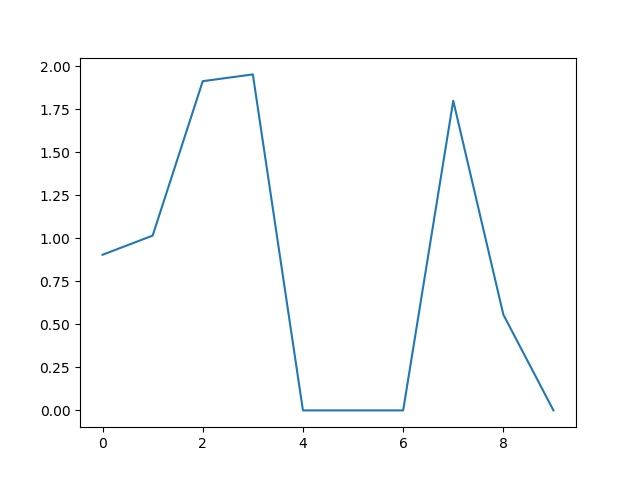
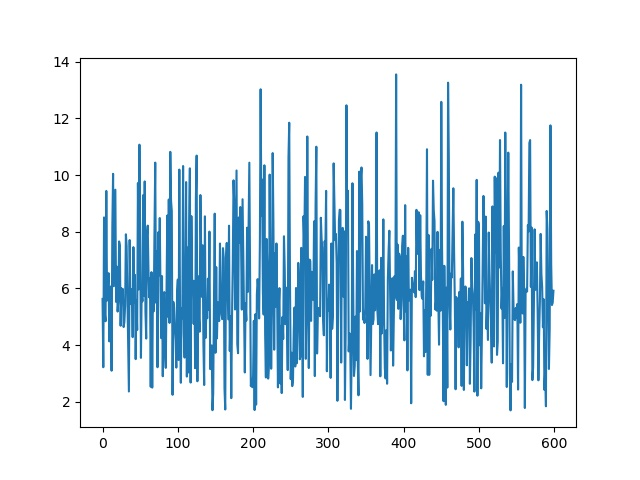
Implement TransE v0.3 New:     * better negative-sampling     * normalize embedding parameters for each epoch

diff --git a/Optimizer_nn_embed.py b/Optimizer_nn_embed.py
@@ -11,7 +11,7 @@ def draw(p1):
     plt.figure('Draw')
     plt.plot(p1)  
     plt.draw()  
-    plt.pause(3)  
+    plt.pause(1)  
     plt.savefig("easyplot01.jpg")
     plt.close()
 
@@ -52,7 +52,7 @@ class Relation(object):
         
 
 class FancyMLP(nn.Block):
-    def __init__(self, entity_size=0, relation_size=0, entity_dim=2, relation_dim=2, sampling_rate=0.2, ctx=None, logger=None, **kwargs):
+    def __init__(self, entity_size=0, relation_size=0, entity_dim=2, relation_dim=2, negative_sampling_rate=0.5, margin=0.1, ctx=None, logger=None, **kwargs):
         super(FancyMLP, self).__init__(**kwargs)
         self.entity_list = list(range(entity_size))
         self.relation_list = list(range(relation_size))
@@ -64,7 +64,8 @@ class FancyMLP(nn.Block):
         self.relation_dim = relation_dim
         self.entity_embedding = Embedding(entity_size, entity_dim)
         self.relation_embedding = Embedding(relation_size, relation_dim)
-        self.sampling_rate=sampling_rate
+        self.negative_sampling_rate=negative_sampling_rate
+        self.margin = margin
         self.ctx = ctx
         self.logger = logger
 
@@ -73,7 +74,7 @@ class FancyMLP(nn.Block):
             if type(self.entity_list[relat.head.idx]) is int:
                 self.entity_list[relat.head.idx] = self.params.get(relat.head.tag, shape=(1,self.entity_dim), init=init.Uniform(1))
             if type(self.relation_list[relat.idx]) is int:
-                self.relation_list[relat.idx] = self.params.get(relat.tag, shape=(1,self.relation_dim), init=init.One())
+                self.relation_list[relat.idx] = self.params.get(relat.tag, shape=(1,self.relation_dim), init=init.Uniform(1))
             if type(self.entity_list[relat.tail.idx]) is int:
                 self.entity_list[relat.tail.idx] = self.params.get(relat.tail.tag, shape=(1,self.entity_dim), init=init.Uniform(1))
             triple = (relat.head.idx, relat.idx, relat.tail.idx)
@@ -100,39 +101,73 @@ class FancyMLP(nn.Block):
     #     L = nd.dot(r.T, nd.tanh(ht))
     #     return L
 
+    # def distance(self, h, r, t):
+    #     # self.take_log(h, r, t)
+    #     D = h + r - t
+    #     return D
     def distance(self, h, r, t):
         # self.take_log(h, r, t)
-        D = h + r - t
+        D = (h + r - t).norm(ord=2, axis=-1)
         return D
 
-    def loss_function(self, h, r, t, h_hat, t_hat, gamma=0.5):
+    def loss_function(self, h, r, t, h_hat, t_hat):
         # print(self.distance(h,r,t) - self.distance(h_hat,r,t_hat))
-        # print(nd.array(gamma + self.distance(h,r,t) - self.distance(h_hat,r,t_hat), self.ctx))
-        # print(nd.maximum(nd.array(gamma + self.distance(h,r,t) - self.distance(h_hat,r,t_hat), self.ctx), 0))
-        L = nd.maximum(nd.array(gamma + self.distance(h,r,t) - self.distance(h_hat,r,t_hat), self.ctx), 0)
+        # print(nd.array(margin + self.distance(h,r,t) - self.distance(h_hat,r,t_hat), self.ctx))
+        # print(nd.maximum(nd.array(margin + self.distance(h,r,t) - self.distance(h_hat,r,t_hat), self.ctx), 0))
+        L = nd.maximum(nd.array(self.margin + self.distance(h,r,t) - self.distance(h_hat,r,t_hat), self.ctx), 0)
         return L
 
-    def negative_sampling(self, triple_set:[int], sampling_rate=0.1):
+    # def negative_sampling(self, triple_set:[int], negative_sampling_rate=0.5):
+    #     import random
+    #     negative_sample = []
+    #     for head_idx in list(range(self.entity_size)):
+    #         for tail_idx in list(range(self.entity_size)):
+    #             if head_idx == tail_idx:
+    #                 continue
+    #             exist_relat = []
+    #             for (head, relat, tail) in triple_set:
+    #                 if (head_idx, relat, tail_idx) not in triple_set:
+    #                     if random.random()<negative_sampling_rate:
+    #                         negative_sample.append((head, relat, tail, head_idx, tail_idx))
+    #                         exist_relat.append(relat)
+    #     self.logger.debug(negative_sample)
+    #     return negative_sample
+    def negative_sampling(self, triple_set:[int], negative_sampling_rate=0.5):
         import random
         negative_sample = []
-        for head_idx in list(range(self.entity_size)):
-            for tail_idx in list(range(self.entity_size)):
-                if head_idx == tail_idx:
-                    continue
-                exist_relat = []
-                for (head, relat, tail) in triple_set:
-                    if relat not in exist_relat and (head_idx, relat, tail_idx) not in triple_set:
-                        exist_relat.append(relat)
-                        if random.random()<sampling_rate:
-                            negative_sample.append((head, relat, tail, head_idx, tail_idx))
+        for (head, relat, tail) in triple_set:
+            sample_source = []
+            for head_idx in list(range(self.entity_size)):
+                for tail_idx in list(range(self.entity_size)):
+                    if head_idx == tail_idx:
+                        continue
+                    if (head_idx, relat, tail_idx) not in triple_set:
+                        sample_source.append((head_idx, tail_idx))
+            choice = random.choice(sample_source)
+            negative_sample.append((head, relat, tail, *choice))
+            # TODO
+        self.logger.debug(negative_sample)
         return negative_sample
 
     def norm_layer(self, x, dim):
-        return (x/x.norm(axis=-1, keepdims=True))
+        # return (x/x.norm(axis=-1, keepdims=True))
+        return x
+
+    def normalize_entity_parameters(self):
+        for tag in list(self.entity_embedding.params):
+            # logger.debug(self.entity_embedding.params[tag].data())
+            weight = self.entity_embedding.params[tag]
+            self.entity_embedding.params[tag].set_data(weight.data()/weight.data().norm(axis=-1, keepdims=True))
+            # logger.debug(self.entity_embedding.params[tag].data())
+        # for (i,entity) in enumerate(self.entity_embedding):
+        #     if type(entity) is not int:
+        #         self.entity_list[i] = (entity.data()/entity.data().norm(axis=-1, keepdims=True))
 
     def forward(self, start=0, end=0):
         # (h_i, r_i, t_i) = self.triple_set[start]
-        new_triple_set = self.negative_sampling(self.triple_set, self.sampling_rate)
+        new_triple_set = []
+        while new_triple_set == []:
+            new_triple_set = self.negative_sampling(self.triple_set, self.negative_sampling_rate)
         h_i = nd.array([triple[0] for triple in new_triple_set], ctx=self.ctx)
         r_i = nd.array([triple[1] for triple in new_triple_set], ctx=self.ctx)
         t_i = nd.array([triple[2] for triple in new_triple_set], ctx=self.ctx)
@@ -153,11 +188,11 @@ class FancyMLP(nn.Block):
         # logger.debug(h_hat)
         # logger.debug(t_hat)
 
-        h = self.norm_layer(h, self.entity_dim)
-        t = self.norm_layer(t, self.entity_dim)
-        # r = self.norm_layer(r, self.relation_dim)
-        h_hat = self.norm_layer(h_hat, self.entity_dim)
-        t_hat = self.norm_layer(t_hat, self.entity_dim)
+        # h = self.norm_layer(h, self.entity_dim)
+        # t = self.norm_layer(t, self.entity_dim)
+        # # r = self.norm_layer(r, self.relation_dim)
+        # h_hat = self.norm_layer(h_hat, self.entity_dim)
+        # t_hat = self.norm_layer(t_hat, self.entity_dim)
         # logger.debug(h)
         # logger.debug(t)
         # logger.debug(h_hat)
@@ -186,10 +221,7 @@ class FancyMLP(nn.Block):
             t = self.norm_layer(t, self.entity_dim)
             f.write('{}-{}-{} \n{} - {} - {} - {} - {}\n\n'.format(
                     str(h_i), str(r_i), str(t_i), str(h), str(r), str(t), 
-                    '',''))
-            # f.write('{}-{}-{} \n{} - {} - {} - {} - {}\n\n'.format(
-            #         str(h_i), str(r_i), str(t_i), str(h), str(r), str(t), 
-            #         str(self.distance(h, r, t)), str(self.distance(h, r, t).abs().sum())))
+                    str(self.distance(h, r, t)), str(self.distance(h, r, t).abs().sum())))
 
 
 def build_dataset(entity_dim=2, relation_dim=2, ctx=None):
@@ -197,24 +229,20 @@ def build_dataset(entity_dim=2, relation_dim=2, ctx=None):
     A = Entity(0, 'A', nd.ones(shape=(1,entity_dim), ctx=ctx))
     B = Entity(1, 'B', nd.ones(shape=(1,entity_dim), ctx=ctx))
     C = Entity(2, 'C', nd.ones(shape=(1,entity_dim), ctx=ctx))
+    D = Entity(3, 'D', nd.ones(shape=(1,entity_dim), ctx=ctx))
+    E = Entity(4, 'E', nd.ones(shape=(1,entity_dim), ctx=ctx))
     relation_list.append(Relation(0, 'r1', A, B, nd.ones(shape=(1,relation_dim), ctx=ctx)))
     relation_list.append(Relation(0, 'r1', B, C, nd.ones(shape=(1,relation_dim), ctx=ctx)))
-    relation_list.append(Relation(1, 'r2', C, A, nd.ones(shape=(1,relation_dim), ctx=ctx)))
+    relation_list.append(Relation(0, 'r1', C, D, nd.ones(shape=(1,relation_dim), ctx=ctx)))
+    relation_list.append(Relation(0, 'r1', D, E, nd.ones(shape=(1,relation_dim), ctx=ctx)))
+    relation_list.append(Relation(1, 'r2', C, B, nd.ones(shape=(1,relation_dim), ctx=ctx)))
+    # relation_list.append(Relation(1, 'r2', B, A, nd.ones(shape=(1,relation_dim), ctx=ctx)))
     return relation_list
 
 if __name__ == '__main__':
     logger = Log(10, 'pg', False)
-    
-    # M1 = nd.random_normal(loc=1, shape=(2, 2))
-    # M2 = nd.random_normal(loc=1, shape=(2, 2))
 
-    # A = nd.random_normal(loc=1, shape=(2, 1))
-    # B = nd.random_normal(loc=1, shape=(2, 1))
-    # C = nd.random_uniform(shape=(2, 1))
-
-    # R1 = nd.array([[1, 1]]).T
-
-    entity_size = 3
+    entity_size = 5
     relation_size = 2
     entity_dim = 2
     relation_dim = 2
@@ -223,30 +251,24 @@ if __name__ == '__main__':
 
     Y = nd.zeros(shape=(entity_size,entity_dim), ctx=ctx)
 
-    # A.attach_grad()
-    # B.attach_grad()
-    # C.attach_grad()
-    # R1.attach_grad()
-
-    # M1.attach_grad()
-    # M2.attach_grad()
-
     data = build_dataset(entity_dim=entity_dim, relation_dim=relation_dim, ctx=ctx)
 
     net = FancyMLP(entity_size, relation_size,
                         entity_dim, relation_dim,
-                        # sampling_rate=0.2, 
+                        negative_sampling_rate=0.3, 
+                        margin=1,
                         ctx=ctx, logger=logger)
     net.add_relation_list(data)
     net.initialize(force_reinit=True, ctx=ctx)
 
-    trainer = gluon.Trainer(net.collect_params(), 'sgd',
-                            {'learning_rate': 0.01})
-    loss = gloss.L1Loss()
+    trainer = gluon.Trainer(net.collect_params(), 'Adagrad',
+                            {'learning_rate': 0.000001})
+    loss = gloss.L2Loss()
 
     p = []
 
-    for i in range(100):
+    for i in range(600):
+        net.normalize_entity_parameters()
         # logger.info('*'*40)
         # logger.debug(A)
         # logger.debug(B)
@@ -266,7 +288,7 @@ if __name__ == '__main__':
             # print(l)
         l.backward()
         trainer.step(relation_size, True)
-    draw(p)
     net.dump('relations.txt', loss, ctx)
+    draw(p)
 
     # logger.debug(net(X))
